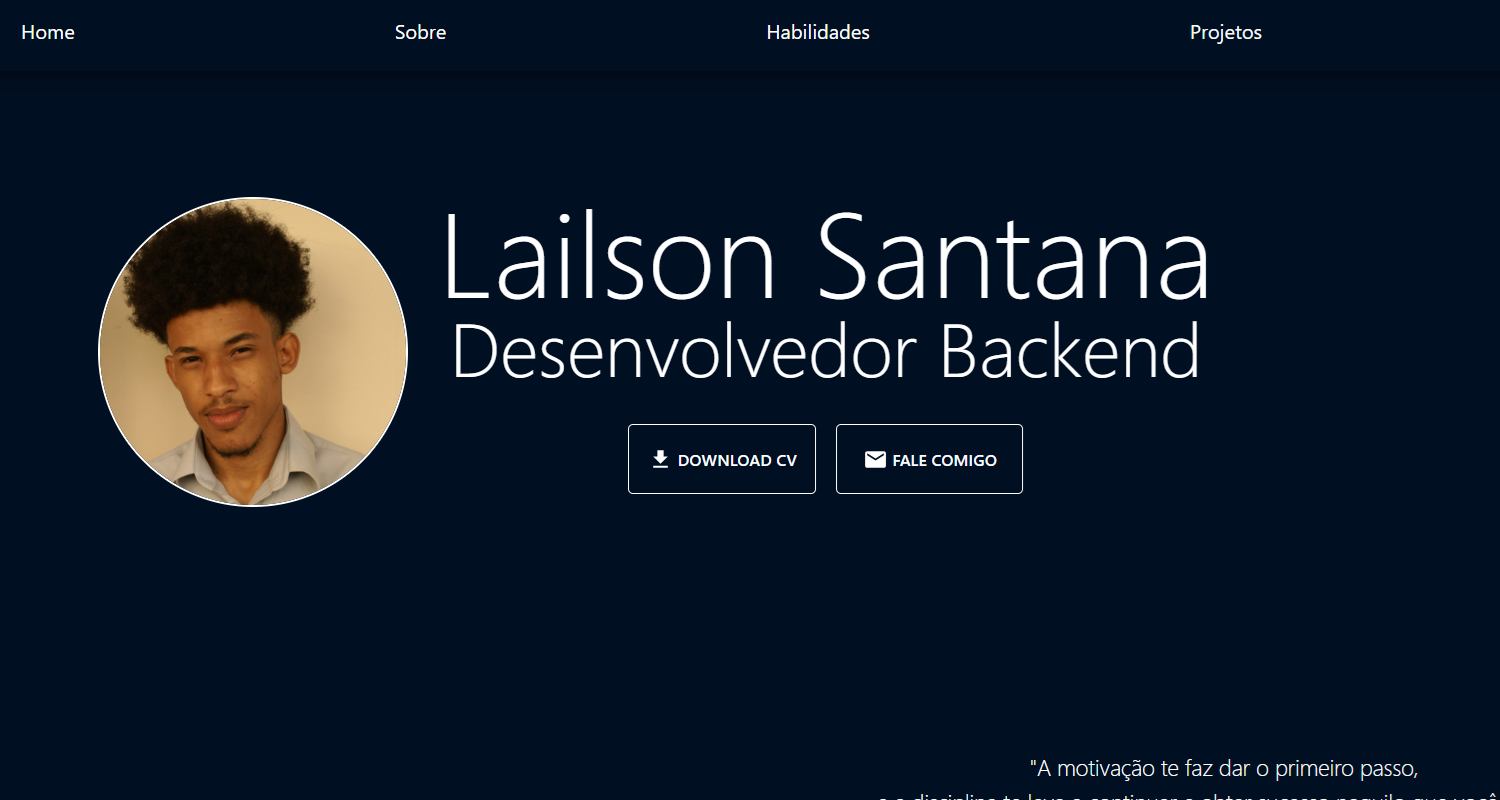
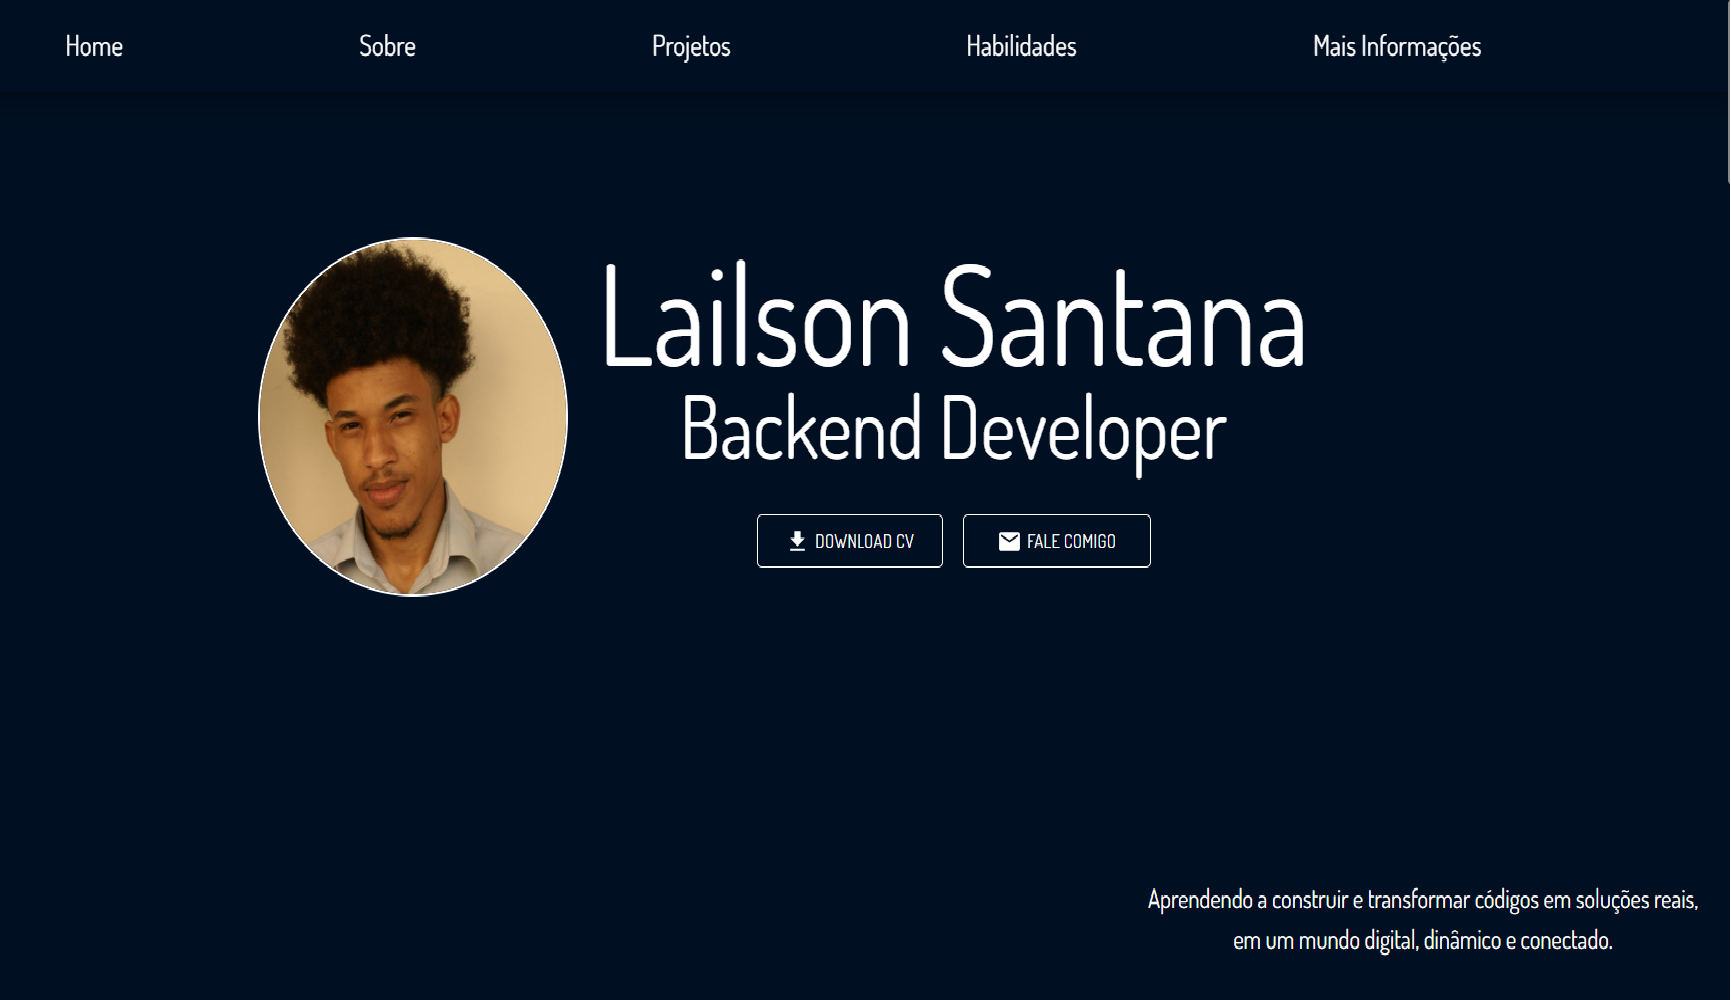
Mudança de Fonte

diff --git a/src/components/sections/Projects.tsx b/src/components/sections/Projects.tsx
@@ -14,7 +14,7 @@ const items = [
 
     {
         project : "Portifólio Pessoal",
-        description : "Uma landing page para inclusão de informações profissionais , um portifílio online",
+        description : "Landing page",
         link: "",
         icon: <WebIcon fontSize="large" className="text-white" />,
         finishedDate: "Em andamento",
@@ -23,7 +23,8 @@ const items = [
     },
     {
         project: "Question Hub",
-        description: "Uma plataforma educativa online para criação de questões, criada como trabalho de conclusão de curso(TCC)",
+        //"Uma plataforma educativa online para criação de questões, criada como trabalho de conclusão de curso (TCC)"
+        description: "Plataforma educativa/colaborativa",
         link: "https://github.com/LailsonSantana/question_hub.",
         icon: <QuizIcon fontSize="large" className="text-white" />,
         finishedDate: "20/04/2025",
@@ -31,7 +32,7 @@ const items = [
     },
     {
         project : "Fluxograma Interativo",
-        description : "Um fluxograma interativo para verificação de disciplinas e pré requisitos do curso de Ciência da Computação - UESB.",
+        description : "Matriz curricular iterativa.",
         link: "https://github.com/LailsonSantana/interactive-flowchart",
         icon: <AccountTreeIcon fontSize="large" className="text-white" />,
         finishedDate: "01/03/2025",
@@ -39,7 +40,7 @@ const items = [
     },
     {
         project : "Jogo de Apostas",
-        description : "Um jogo construído com o objetivo de aplicar o conceito de threads em java.",
+        description : "Jogo de apostas.",
         link: "https://github.com/LailsonSantana/Jogo_de_Apostas",
         icon: <CasinoIcon fontSize="large" className="text-white" />,
         finishedDate: "23/05/2021",
@@ -89,22 +90,27 @@ const Project: React.FC<ProjectProps> = () => {
                                             <h3 className="font-bold text-xl my-1 mb-4" >
                                                 {item.project}
                                             </h3>
-                                            <p className="text-gray-400 select-none">{item.description}</p>
+                                            <p className="text-gray-400 select-none text-sm lg:text-md">{item.description}</p>
                                         </div>
                                     </div>
                                 </div>
 
                                 <div className="rounded-md flex items-center justify-center px-2">
-                                    <img src={item.image} className="rounded-md shadow-3xl max-w-full max-h-60 object-contain border border-gray-900"/>
+                                    <img src={item.image} className="rounded-md shadow-3xl max-w-full max-h-80 object-contain border border-gray-900"/>
                                 </div>
 
-                                <div className="border-t border-gray-700 pt-4 flex items-center justify-between" >
-                                    <div className="flex items-center gap-2 text-sm ">
-                                        <Calendar className="w-4 h-4" />
-                                        <span>Data de conclusão : {item.finishedDate}</span>
+                                <div className="border-t border-gray-700 pt-4 flex items-center lg:justify-between" >
+                                    <div className="hidden md:flex items-center gap-2 text-sm">
+                                        <Calendar className="w-5 h-5" />
+                                        <div> 
+                                            <span className="font-semibold">Data de conclusão :</span>
+                                            <span> </span>
+                                            <span> {item.finishedDate}</span>
+                                        </div>
                                     </div>
 
-                                    <a href={item.link} className="flex items-center justify-center px-4 py-1 rounded-md">
+                                    
+                                    <a href={item.link} className="flex m-auto items-center justify-center px-4 py-1 rounded-md">
                                         <GitHubIcon fontSize="small" />
                                         <span className="ml-2">Visualizar</span>
                                     </a>
@@ -114,20 +120,20 @@ const Project: React.FC<ProjectProps> = () => {
                     ))}
                 </div>
             </div>
-            
-            <button className='bg-white flex items-center justify-center rounded-full shadow-lg w-10 h-10 absolute left-3 -translate-y-1/2 -translate-x-1/2 top-1/2 z-10' 
-                    onClick={scrollPrev}>
-                <ChevronLeft 
-                className="w-6 h-6 text-gray-600 " />
                 
-            </button>
+                <button className='bg-white flex items-center justify-center rounded-full shadow-lg w-8 h-8 absolute left-3 -translate-y-1/2 -translate-x-1/2 top-1/2 z-10' 
+                        onClick={scrollPrev}>
+                    <ChevronLeft 
+                    className="w-6 h-6 text-gray-600 " />
+                    
+                </button>
 
-            <button className='bg-white flex items-center justify-center rounded-full shadow-lg w-10 h-10 absolute -right-6 -translate-y-1/2 -translate-x-1/2 top-1/2 z-10' 
-                    onClick={scrollNext}>   
-                <ChevronRight 
-                className="w-6 h-6 text-gray-600 " />
-                
-            </button>
+                <button className='bg-white flex items-center justify-center rounded-full shadow-lg w-8 h-8 absolute -right-4 -translate-y-1/2 -translate-x-1/2 top-1/2 z-10' 
+                        onClick={scrollNext}>   
+                    <ChevronRight 
+                    className="w-6 h-6 text-gray-600 " />
+                    
+                </button>
             </div>
 
 

diff --git a/src/components/sections/Home.tsx b/src/components/sections/Home.tsx
@@ -2,11 +2,11 @@ import { Button } from "@mui/material";
 import DownloadIcon from '@mui/icons-material/Download';
 import EmailIcon from '@mui/icons-material/Email';
 
-interface TesteProps{
+interface HomeProps{
 
 }
 
-const Home: React.FC<TesteProps> = () => {
+const Home: React.FC<HomeProps> = () => {
     return(
         <div  className="flex flex-col bg-[#010F22] w-screen h-screen border-white border-t-2">
             <section id="home" className="grid grid-cols-1 lg:flex items-center justify-center m-auto place-items-center">
@@ -18,19 +18,19 @@ const Home: React.FC<TesteProps> = () => {
                 <div className="flex flex-col items-center p-2 text-white justify-center">
                     
                 <h1 className="text-white text-center text-5xl font-thin lg:text-8xl">Lailson Santana</h1>
-                <h2 className="text-white text-center text-3xl font-thin lg:text-6xl">Desenvolvedor Backend</h2>
+                <h2 className="text-white text-center text-3xl font-thin lg:text-6xl">Backend Developer</h2>
                     
                     
                     <div className="flex gap-4 mt-4 p-4">
                         <Button variant="outlined" size="small"
-                        sx={{ color: 'white', borderColor: 'white', minWidth: '150px', '&:hover': { borderColor: 'gray.300' } }}
+                        sx={{ fontFamily:'Dosis' , color: 'white', borderColor: 'white', padding:"6px", minWidth: '150px', '&:hover': { borderColor: 'gray.300' } }}
                         className="flex gap-1 m-auto text-white lg:w-full">
                             <DownloadIcon fontSize="small"/>
                             <span>Download CV</span>
                         </Button>
 
                         <Button variant="outlined" size="small"
-                        sx={{ color: 'white', borderColor: 'white', padding:"16px" , minWidth: '150px', '&:hover': { borderColor: 'gray.300' } }}
+                        sx={{ fontFamily:'Dosis', color: 'white', borderColor: 'white', padding:"6px" , minWidth: '150px', '&:hover': { borderColor: 'gray.300' } }}
                         className="flex gap-1 m-auto text-white lg:w-full">
                             <EmailIcon fontSize="small"/>
                             <span>Fale comigo</span>
@@ -42,7 +42,7 @@ const Home: React.FC<TesteProps> = () => {
 
             <div className="flex flex-col p-8 items-end">
                 <div className="flex flex-col">
-                    <h1 className="text-white text-center text-sm lg:text-lg font-thin">Aprendendo a construir e transformar códigos em soluções</h1>
+                    <h1 className="text-white text-center text-sm lg:text-lg font-thin">Aprendendo a construir e transformar códigos em soluções reais, </h1>
                     <h1 className="text-white text-center text-sm lg:text-lg font-thin">em um mundo digital, dinâmico e conectado.  </h1>
                 </div>
             </div>

diff --git a/src/components/teste/AutomaticRoll2.tsx b/src/components/teste/AutomaticRoll2.tsx
@@ -1,0 +1,43 @@
+import { Icon } from '@iconify/react';
+
+<Icon icon="simple-icons/react" width="32" height="32" />
+
+
+const techs = [
+  { name: "Java", icon: "mdi:language-java" },
+  { name: "Spring Boot", icon: "simple-icons/springboot" },
+  { name: "React", icon: "mdi:react" },
+  { name: "Github" , icon: "mdi:github" },
+  { name: "Tailwind", icon: "simple-icons/tailwindcss" },
+  { name: "TypeScript", icon: "mdi:language-typescript" },
+  { name: "Node.js", icon: "mdi:nodejs" },
+  { name: "Next.js", icon: "simple-icons:nextdotjs" },
+  { name: "PostgreSQL", icon: "mdi:database" },
+  { name: "Docker", icon: "mdi:docker" },
+  { name: "Python", icon: "mdi:language-python" },
+];
+
+export default function InfiniteScroll2() {
+  return (
+    <div className="relative overflow-hidden bg-[#080121] py-4 border-y border-gray-700 w-screen">
+      {/* Sombras laterais */}
+      <div className="absolute left-0 top-0 h-full w-16 bg-gradient-to-r from-gray-900 to-transparent z-10 pointer-events-none" />
+      <div className="absolute right-0 top-0 h-full w-16 bg-gradient-to-l from-gray-900 to-transparent z-10 pointer-events-none" />
+
+      {/* Faixa com as tecnologias duplicadas */}
+      <div className="flex animate-marquee whitespace-nowrap min-w-max ">
+        {[...techs, ...techs].map((tech, index) => (
+          <span key={index} className="text-white text-xl mx-8 flex justify-center items-center gap-1">
+            <Icon icon={tech.icon} width={24} style={{ fill: 'white' }}/>
+            
+            {tech.name}
+          </span>
+        ))}
+      </div>
+    </div>
+  );
+}
+
+
+
+  

diff --git a/src/app/layout.tsx b/src/app/layout.tsx
@@ -7,6 +7,9 @@ import { ThemeProvider } from "@emotion/react";
 import theme from "@/components/theme";
 import { CssBaseline } from "@mui/material";
 import { useEffect, useState } from "react";
+import { Delius } from "next/font/google";
+import { Dosis } from "next/font/google";
+
 
 const geistSans = Geist({
   variable: "--font-geist-sans",
@@ -16,6 +19,18 @@ const geistSans = Geist({
 const geistMono = Geist_Mono({
   variable: "--font-geist-mono",
   subsets: ["latin"],
+});
+
+const dosis = Dosis({
+  subsets: ["latin"],
+  weight: "400",
+  variable: "--font-lora",
+});
+
+const delius = Delius({
+  subsets: ["latin"],
+  weight: "400",
+  variable: "--font-delius",
 });
 
 {/*export const metadata: Metadata = {
@@ -31,11 +46,11 @@ export default function RootLayout({
   
   return (
     <html lang="en">
-      <body>
-        <ThemeProvider theme={theme}>
-        <CssBaseline />
+      <body className={`${dosis.variable} ${geistMono.variable} antialiased`}>
+        
+        
           {children}
-        </ThemeProvider>
+        
       </body>
     </html>
   );

diff --git a/src/components/sections/Informations.tsx b/src/components/sections/Informations.tsx
@@ -21,7 +21,7 @@ const Information: React.FC<InformationProps> = () => {
                 {/* OBJETIVOS */}
                 <div>
                 <h2 className="text-4xl font-semibold mb-6 text-center text-black">Objetivos</h2>
-                <div className="grid grid-cols-1 lg:grid-cols-2 gap-8">
+                <div className="grid grid-cols-1 lg:grid-cols-2 gap-8 m-8">
                     
                     {/* Curto Prazo */}
                     <ContainerInfo>
@@ -73,7 +73,7 @@ const Information: React.FC<InformationProps> = () => {
                 {/* CURSOS */}
                 <div>
                 <h2 className="text-4xl font-semibold mb-6 text-center">Cursos</h2>
-                <div className="grid grid-cols-1 lg:grid-cols-2 gap-8">
+                <div className="grid grid-cols-1 lg:grid-cols-2 gap-8 m-8">
 
                     {/* Finalizados */}
                     <ContainerInfo>

diff --git a/src/components/Navbar.tsx b/src/components/Navbar.tsx
@@ -10,7 +10,9 @@ import { styled } from '@mui/material';
 
 export const StyledNavLink = styled("a")(() => ({
     textDecoration: "none",
-    color: "inherit"
+    color: "inherit",
+    fontFamily: "'Dosis', sans-serif",
+    fontSize: "1.25rem",
 }));
 
 export const StyledMobileToolbar = styled(Toolbar)(({ theme }) => ({
@@ -54,7 +56,7 @@ export default function Navbar() {
 
     return (
         <Box sx={{ flexGrow: 1 }}>
-            <AppBar position="absolute" elevation={10} sx={{ backgroundColor: '#010F22' }}>
+            <AppBar position="absolute" elevation={10} sx={{ backgroundColor: '#010F22'}}>
                 <StyledMobileToolbar>
                     <IconButton
                         size="large"

diff --git a/src/app/page.tsx b/src/app/page.tsx
@@ -1,13 +1,12 @@
 'use client'
 
 import About from "@/components/sections/About";
-import Initial from "@/components/sections/Informations";
-import Knowledge from "@/components/sections/Skills";
 import Projects from "@/components/sections/Projects";
 import Teste from "@/components/sections/Home";
 import Template from "@/components/Template";
 import Skills from "@/components/sections/Skills";
 import Information from "@/components/sections/Informations";
+import { delius } from "@/components/theme"
 
 
 export default function Home() {

diff --git a/src/components/theme.ts b/src/components/theme.ts
@@ -1,4 +1,12 @@
 import { createTheme, responsiveFontSizes } from '@mui/material/styles';
+import { Delius } from "next/font/google";
+
+
+export const delius = Delius({
+  subsets: ["latin"],
+  weight: "400",
+  variable: "--font-delius",
+});
 
 let theme = createTheme({
   palette: {
@@ -10,7 +18,7 @@ let theme = createTheme({
     },
   },
   typography: {
-    fontFamily: "Segoe UI"   //"Segoe UI"
+    fontFamily: `var(${delius.variable})`
   }
 });
 

diff --git a/src/app/globals.css b/src/app/globals.css
@@ -1,6 +1,7 @@
 @import "tailwindcss";
 @import '@fontsource/inter';
 
+
 :root {
   --background: #ffffff;
   --foreground: #171717;
@@ -25,7 +26,12 @@ body {
   color: var(--foreground);
   overflow-x: hidden;
   scrollbar-color: #f2f1f1;
+  font-family: 'Dosis', sans-serif;
 
+}
+
+nav {
+  font-family: 'Delius', sans-serif;
 }
 
 @keyframes star-movement-bottom {
